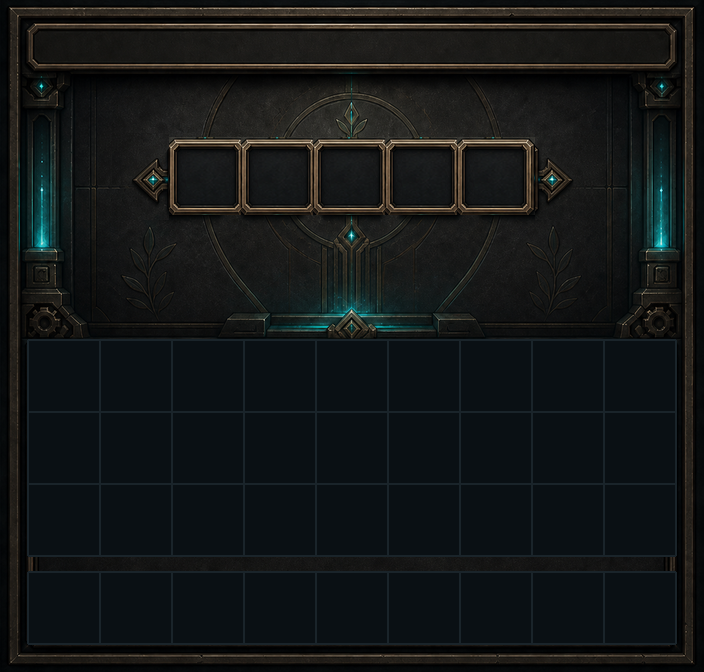
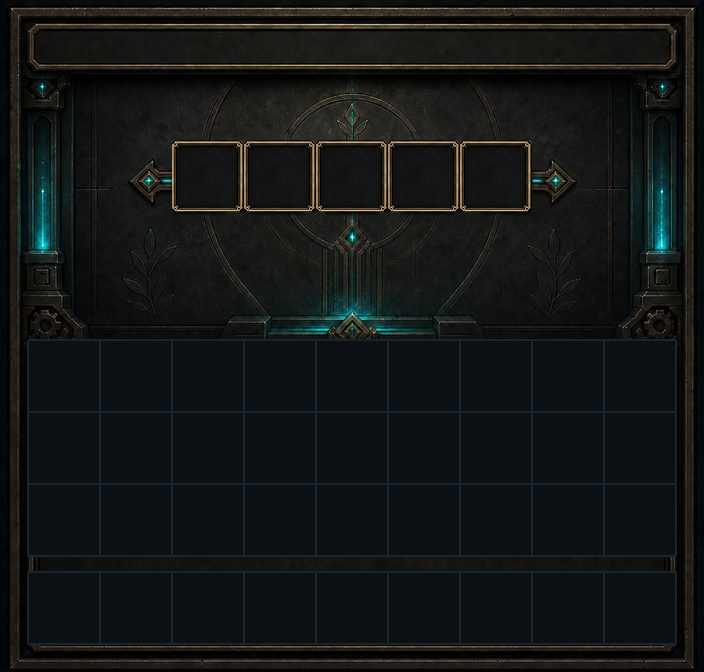
스킬 허브 — 3차 납품(얇은 금테)로 교체
3차도 액자 간격이 77px로 왔다(1·2차는 76·80px). 간격은 그대로 코드가 잡고
스프라이트만 3차 것으로 바꿨다 — 얇은 금테가 아이콘을 덜 가리고 뒤 문양이 산다.
바깥 72px = 셀 크기라 다섯이 딱 붙어 한 줄 진열대가 된다.

★스프라이트 상자는 액자 딱 그만큼만 — 배경을 물면 가운데 새싹 장식이 다섯 번
복제돼 액자 위로 띠처럼 깔린다(1차 시도에서 겪음).

diff --git a/gui-forge/build_status_hud.py b/gui-forge/build_status_hud.py
@@ -1,0 +1,164 @@
+#!/usr/bin/env python3
+"""오른쪽 위 상태 HUD(소지금·레벨·캐시) 그림을 굽는다.
+
+★판은 새로 그리지 않고 대화창 명패(dialogue-nameplate.png)에서 늘려 만든다.
+  같은 손이 그린 것처럼 보이게 하려는 것이고, 실제로 이미 인게임에서 검증된 아트다.
+  늘리는 방법은 "띠 반복"이 아니라 "안쪽 구간 resize" — 반복하면 같은 얼룩이 되풀이된다
+  (2026-08-08 대화창 판에서 실제로 그 지적을 받았다).
+
+★아이콘은 색만 바꾼 같은 모양을 쓰지 않는다. 실루엣을 다르게 간다:
+  소지금=원(동전) · 레벨=별 · 캐시=마름모(보석). 색이 안 보여도 구분된다.
+
+산출: ops/prod/betterhud/assets/status/ 에 png 4장
+사용:  python3 build_status_hud.py
+"""
+import os
+
+from PIL import Image, ImageDraw
+
+HERE = os.path.dirname(os.path.abspath(__file__))
+SRC = os.path.join(HERE, "src", "dialogue", "dialogue-nameplate.png")
+OUT = os.path.abspath(os.path.join(HERE, "..", "ops", "prod", "betterhud", "assets", "status"))
+
+# 명패 실측(열이 아니라 행 프로파일로 뽑음): 0~4 위 나무테 · 7~24 양피지 · 26~31 아래 나무테.
+# 10~21 이 밝기 162 로 완전히 균일해서, 늘려도 티가 안 나는 구간이 여기다.
+STRETCH = (10, 22)      # [시작, 끝) — 이 구간만 세로로 늘린다
+PLATE_H = 56            # 3줄(소지금·레벨·캐시)이 들어갈 높이
+
+SS = 8                  # 아이콘은 8배로 그린 뒤 줄여서 계단을 없앤다
+ICON = 12
+
+
+def build_plate():
+    im = Image.open(SRC).convert("RGBA")
+    w, h = im.size
+    a, b = STRETCH
+    grow = PLATE_H - h
+    band = im.crop((0, a, w, b)).resize((w, (b - a) + grow), Image.LANCZOS)
+    out = Image.new("RGBA", (w, PLATE_H))
+    out.alpha_composite(im.crop((0, 0, w, a)), (0, 0))
+    out.alpha_composite(band, (0, a))
+    out.alpha_composite(im.crop((0, b, w, h)), (0, a + band.height))
+    return out
+
+
+def _shrink(big, palette):
+    """8배 그림을 12px 픽셀아트로 내린다.
+
+    ★그냥 resize 만 하면 안티에일리어싱이 남아 뭉갠 젤리처럼 보인다(첫 시도에서 그랬다).
+      면적평균(BOX)으로 내린 뒤 **알파를 이진화하고 색을 팔레트에 스냅**해서 각을 세운다.
+      팔레트 스냅이 곧 색 수 제한이라, 인게임 12px 에서 형태가 또렷하게 읽힌다.
+    """
+    small = big.resize((ICON, ICON), Image.BOX)
+    px = small.load()
+    for y in range(ICON):
+        for x in range(ICON):
+            r, g, b, a = px[x, y]
+            if a < 128:
+                px[x, y] = (0, 0, 0, 0)
+                continue
+            best = min(palette, key=lambda c: (c[0]-r)**2 + (c[1]-g)**2 + (c[2]-b)**2)
+            px[x, y] = (*best, 255)
+    return small
+
+
+GOLD = [(92, 58, 12), (168, 118, 32), (226, 176, 66), (248, 218, 134), (255, 244, 206)]
+TEAL = [(14, 62, 66), (28, 118, 122), (58, 176, 176), (126, 226, 216), (214, 252, 244)]
+VIOLET = [(52, 24, 82), (110, 58, 158), (168, 102, 226), (214, 170, 252), (250, 230, 255)]
+
+
+def icon_coin():
+    """소지금 — 정원(正圓) 동전. 사방 테두리를 두르고 왼쪽 위만 광택."""
+    s = ICON * SS
+    im = Image.new("RGBA", (s, s), (0, 0, 0, 0))
+    d = ImageDraw.Draw(im)
+    # ★원만은 8배로 그려서 줄이지 않는다. 줄이는 순간 테두리 굵기가 방향마다 달라져
+    #   원이 아니라 찌그러진 덩어리로 읽힌다(두 번 시도해서 두 번 다 그랬다).
+    #   대신 12px 격자에서 반지름을 직접 판정해 링 두께를 사방 균일하게 만든다.
+    del im, d, s
+    out = Image.new("RGBA", (ICON, ICON), (0, 0, 0, 0))
+    px = out.load()
+    c = (ICON - 1) / 2.0
+    for y in range(ICON):
+        for x in range(ICON):
+            dx, dy = x - c, y - c
+            r = (dx * dx + dy * dy) ** 0.5
+            if r > 5.7:
+                continue
+            if r > 4.55:
+                col = GOLD[0]                       # 테두리 — 사방 균일
+            elif (dx + 1.3) ** 2 + (dy + 1.5) ** 2 < 1.9 ** 2:
+                col = GOLD[4]                       # 광택 심
+            elif (dx + 1.1) ** 2 + (dy + 1.3) ** 2 < 3.1 ** 2:
+                col = GOLD[3]                       # 광택 번짐
+            elif r > 3.7:
+                col = GOLD[1]                       # 가장자리 그늘
+            else:
+                col = GOLD[2]
+            px[x, y] = (*col, 255)
+    return out
+
+
+def icon_star():
+    """레벨 — 별. ★청록으로 간다: 금색이면 동전과 한눈에 안 구분된다(색+실루엣 둘 다 다르게)."""
+    import math
+    s = ICON * SS
+    im = Image.new("RGBA", (s, s), (0, 0, 0, 0))
+    d = ImageDraw.Draw(im)
+    # 안쪽 반지름을 크게(ro의 0.46) 잡아야 다리가 뭉툭해지지 않고 12px 에서도 별로 읽힌다.
+    cx, cy, ro = s / 2, s / 2 + 0.3 * SS, 5.6 * SS
+    ri = ro * 0.46
+
+    def star(scale):
+        p = []
+        for i in range(10):
+            ang = -math.pi / 2 + i * math.pi / 5
+            r = (ro if i % 2 == 0 else ri) * scale
+            p.append((cx + r * math.cos(ang), cy + r * math.sin(ang)))
+        return p
+
+    d.polygon(star(1.00), fill=TEAL[0] + (255,))
+    d.polygon(star(0.80), fill=TEAL[2] + (255,))
+    d.polygon(star(0.52), fill=TEAL[3] + (255,))
+    d.polygon([(cx - 0.5 * SS, cy - 2.4 * SS), (cx + 0.5 * SS, cy - 2.4 * SS), (cx, cy - 0.6 * SS)],
+              fill=TEAL[4] + (255,))
+    return _shrink(im, TEAL)
+
+
+def icon_gem():
+    """캐시 — 마름모 보석. 윗면을 좁히고 아래 꼭짓점을 뾰족하게(풍선처럼 안 보이게)."""
+    s = ICON * SS
+    im = Image.new("RGBA", (s, s), (0, 0, 0, 0))
+    d = ImageDraw.Draw(im)
+    cx = s / 2
+    top, bot = 1.4 * SS, 10.9 * SS
+    lft, rgt, shoulder = 2.3 * SS, 9.7 * SS, 4.6 * SS      # 어깨 폭을 좁혔다
+    d.polygon([(cx, top), (rgt, shoulder), (cx, bot), (lft, shoulder)], fill=VIOLET[0] + (255,))
+    d.polygon([(cx, top + 0.9 * SS), (rgt - 0.9 * SS, shoulder), (cx, bot - 1.0 * SS),
+               (lft + 0.9 * SS, shoulder)], fill=VIOLET[2] + (255,))
+    # 위 절단면 — 여기만 밝게 해야 "깎인 보석"으로 읽힌다
+    d.polygon([(cx, top + 0.9 * SS), (rgt - 0.9 * SS, shoulder), (cx, shoulder + 0.7 * SS),
+               (lft + 0.9 * SS, shoulder)], fill=VIOLET[3] + (255,))
+    d.polygon([(cx, top + 1.3 * SS), (cx + 1.1 * SS, shoulder - 0.3 * SS), (cx, shoulder)],
+              fill=VIOLET[4] + (255,))
+    return _shrink(im, VIOLET)
+
+
+def main():
+    os.makedirs(OUT, exist_ok=True)
+    made = [("status-plate.png", build_plate()),
+            ("icon-coin.png", icon_coin()),
+            ("icon-star.png", icon_star()),
+            ("icon-gem.png", icon_gem())]
+    for name, im in made:
+        # ★파일명은 소문자만. 대문자가 하나만 섞여도 폰트 파일 전체가 거부되고 HUD가 통째로 사라진다.
+        assert name == name.lower(), name
+        assert im.height > 1, "height 1 글리프는 폰트 전체를 무효화한다"
+        assert im.width <= 160, f"{name} 폭 {im.width} — 160 넘으면 아틀라스에서 조용히 사라진다"
+        im.save(os.path.join(OUT, name))
+        print(f"  {name}  {im.width}x{im.height}")
+    print(f"-> {OUT}")
+
+
+if __name__ == "__main__":
+    main()

diff --git a/gui-forge/prep_skillhub_bg.py b/gui-forge/prep_skillhub_bg.py
@@ -2,7 +2,7 @@
 """스킬 허브 배경 손질 — 액자 다섯을 정확한 격자에 다시 박는다.
 
 ## 왜 손으로 박나
-발주로 두 번 받았는데 액자 간격이 76px, 80px 로 왔다. 필요한 건 **72px**(게임이
+발주로 세 번 받았는데 액자 간격이 76px · 80px · 77px 로 왔다. 필요한 건 **72px**(게임이
 아이템을 그리는 간격)이고, 그림 생성은 픽셀 단위 기하를 못 맞춘다. 재질과 구도는
 받은 그림이 좋으니 **텍스처는 발주, 좌표는 코드**로 나눈다. 강화창 화살표 옮기기
 (prep_enhance_bg.py)·아이스박스 상점 버튼 이식(prep_icebox_bg.py)과 같은 수법이다.
@@ -11,11 +11,10 @@
 1. 받은 원본(1283x1226)을 704x672로 줄인다.
 2. 가운데 액자(이미 x=352에 정확히 앉아 있다)를 스프라이트로 뜬다.
 3. 9-슬라이스로 늘려 **테두리 두께는 그대로 두고 구멍만 64px**로 키운다.
-   받은 액자는 구멍이 48px라 64px짜리 아이콘이 테두리를 통째로 덮었다.
+   받은 액자는 구멍이 51px라 64px짜리 아이콘이 테두리를 통째로 덮었다.
 4. 슬롯 11~15의 셀 중심(x = 208·280·352·424·496, y = 176)에 다시 찍는다.
-   72px 간격에 78px 액자라 6px씩 겹치는데, 겹치는 폭이 테두리 두께와 비슷해
-   칸을 나눈 하나의 진열대처럼 읽힌다.
-5. 옛 액자가 새 액자 바깥으로 삐져나온 좌우 자투리는 아래쪽 벽을 떠다 덮는다.
+   바깥 72px = 셀 크기라 다섯이 딱 붙어 한 줄 진열대가 된다.
+5. 줄이 좁아진 만큼 남는 좌우 자투리는 끝 장식을 안쪽으로 밀어 덮는다.
 
 산출: src/skillhub/bg_source.png  (build_plate.py skillhub 가 먹는 파일)
 """
@@ -27,17 +26,18 @@ HERE = os.path.dirname(os.path.abspath(__file__))
 SRC = os.path.join(HERE, "src", "skillhub")
 RAW = os.path.expanduser(
     "~/.codex/generated_images/019fcffa-2416-7661-aab4-db32e8a6de57/"
-    "exec-6a6d0d38-9ba2-44e2-8aff-8d59e9c1f8c9.png")
+    "exec-b1a918c6-9856-4e37-9e20-3441671cf5df.png")   # 3차 납품(얇은 금테)
 
 W, H = 704, 672
-# 가운데 액자 실측 바깥 상자(704x672 기준). 구멍은 329~377 x 150~206.
-SPRITE = (321, 142, 386, 214)
-CORNER = 18          # 9-슬라이스 모서리 — 액자 장식이 다 들어가는 크기
-OUT = 78             # 새 액자 바깥 한 변 (테두리 7 x2 + 구멍 64)
+# 가운데 액자 실측 바깥 상자(704x672 기준). ★배경까지 물면 그 조각이 다섯 번 복제된다 —
+# 1차 시도에서 가운데 장식(청록 새싹)이 액자마다 딸려 붙어 띠처럼 보였다.
+SPRITE = (324, 149, 382, 211)
+CORNER = 12          # 9-슬라이스 모서리 — 액자 네 귀퉁이 장식이 다 들어가는 크기
+OUT = 72             # 새 액자 바깥 한 변 = 셀 크기. 테두리 4 x2 + 구멍 64 로 딱 맞는다
 CENTERS = [208, 280, 352, 424, 496]   # 슬롯 11~15 셀 중심
 ROW_Y = 176                            # 1행 셀 중심
-OLD = (158, 133, 542, 220)             # 옛 액자 다섯이 차지하던 범위(그림자까지 넉넉히)
-END_L, END_R = (112, 158), (542, 590)  # 좌우 끝 장식(다이아+연결선) 블록
+OLD = (166, 145, 536, 215)             # 옛 액자 다섯이 차지하던 범위
+END_L, END_R = (120, 168), (532, 588)  # 좌우 끝 장식(다이아+연결선) 블록
 
 
 def nine_slice(sp, out_w, out_h, c):
@@ -77,7 +77,7 @@ def main():
         im.alpha_composite(frame, (cx - half, ROW_Y - half))
 
     im.save(os.path.join(SRC, "bg_source.png"))
-    print(f"  skillhub 액자 5개 재배치 · 간격 72px · 바깥 {OUT}px · 구멍 {OUT - 2 * 7}px")
+    print(f"  skillhub 액자 5개 재배치 · 간격 72px · 바깥 {OUT}px")
 
 
 if __name__ == "__main__":
